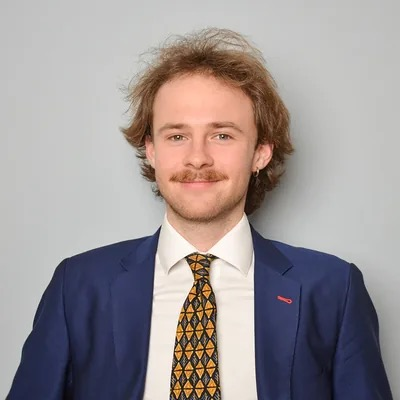
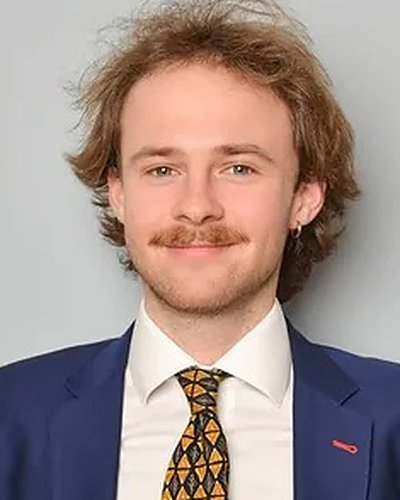
fix(team): crop Mikołaj's photo closer to match the others

diff --git a/en.html b/en.html
@@ -173,7 +173,7 @@
   <div class="z-head"><h2 class="thin">Who is behind it.</h2></div>
   <div class="team">
     <a class="person" href="https://www.linkedin.com/in/adam-b%C4%85czek-269921273/" target="_blank" rel="noopener" aria-label="Adam Bączek Lead (LinkedIn)"><div class="uni"><img src="assets/logos/cbs.svg" alt="Copenhagen Business School" loading="lazy" decoding="async"></div><div class="ph"><img src="assets/img/team/adam-baczek.jpg" alt="Adam Bączek" loading="lazy" decoding="async"></div><h3>Adam Bączek</h3><p class="mono">Lead</p></a>
-    <a class="person" href="https://www.linkedin.com/in/miko%C5%82aj-pawe%C5%82-sapek-8b5633267/" target="_blank" rel="noopener" aria-label="Mikołaj Sapek Operations (LinkedIn)"><div class="uni"><img src="assets/logos/cbs.svg" alt="Copenhagen Business School" loading="lazy" decoding="async"></div><div class="ph"><img src="assets/img/team/mikolaj-sapek.jpg" alt="Mikołaj Sapek" loading="lazy" decoding="async"></div><h3>Mikołaj Sapek</h3><p class="mono">Operations</p></a>
+    <a class="person" href="https://www.linkedin.com/in/miko%C5%82aj-pawe%C5%82-sapek-8b5633267/" target="_blank" rel="noopener" aria-label="Mikołaj Sapek Operations (LinkedIn)"><div class="uni"><img src="assets/logos/cbs.svg" alt="Copenhagen Business School" loading="lazy" decoding="async"></div><div class="ph"><img src="assets/img/team/mikolaj-sapek.jpg?v=2" alt="Mikołaj Sapek" loading="lazy" decoding="async"></div><h3>Mikołaj Sapek</h3><p class="mono">Operations</p></a>
     <a class="person" href="https://www.linkedin.com/in/hubert-szymanowski/" target="_blank" rel="noopener" aria-label="Hubert Szymanowski Operations (LinkedIn)"><div class="uni"><img src="assets/logos/cbs.svg" alt="Copenhagen Business School" loading="lazy" decoding="async"></div><div class="ph"><img src="assets/img/team/hubert-szymanowski.jpg" alt="Hubert Szymanowski" loading="lazy" decoding="async"></div><h3>Hubert Szymanowski</h3><p class="mono">Operations</p></a>
     <a class="person" href="https://www.linkedin.com/in/maksymilian-rokosz/" target="_blank" rel="noopener" aria-label="Maksymilian Rokosz Partnerships (LinkedIn)"><div class="uni"><img src="assets/logos/imperial.svg" alt="Imperial College London" loading="lazy" decoding="async"></div><div class="ph"><img src="assets/img/team/maksymilian-rokosz.jpg?v=2" alt="Maksymilian Rokosz" loading="lazy" decoding="async"></div><h3>Maksymilian Rokosz</h3><p class="mono">Partnerships</p></a>
     <a class="person" href="https://www.linkedin.com/in/jakub-pecka-5b27a3385/" target="_blank" rel="noopener" aria-label="Jakub Pecka Partnerships (LinkedIn)"><div class="uni"><img src="assets/logos/uva.svg" alt="University of Amsterdam" loading="lazy" decoding="async"></div><div class="ph"><img src="assets/img/team/jakub-pecka.jpg" alt="Jakub Pecka" loading="lazy" decoding="async"></div><h3>Jakub Pecka</h3><p class="mono">Partnerships</p></a>

diff --git a/index.html b/index.html
@@ -173,7 +173,7 @@
   <div class="z-head"><h2 class="thin">Kto za tym stoi.</h2></div>
   <div class="team">
     <a class="person" href="https://www.linkedin.com/in/adam-b%C4%85czek-269921273/" target="_blank" rel="noopener" aria-label="Adam Bączek Lead (LinkedIn)"><div class="uni"><img src="assets/logos/cbs.svg" alt="Copenhagen Business School" loading="lazy" decoding="async"></div><div class="ph"><img src="assets/img/team/adam-baczek.jpg" alt="Adam Bączek" loading="lazy" decoding="async"></div><h3>Adam Bączek</h3><p class="mono">Lead</p></a>
-    <a class="person" href="https://www.linkedin.com/in/miko%C5%82aj-pawe%C5%82-sapek-8b5633267/" target="_blank" rel="noopener" aria-label="Mikołaj Sapek Operations (LinkedIn)"><div class="uni"><img src="assets/logos/cbs.svg" alt="Copenhagen Business School" loading="lazy" decoding="async"></div><div class="ph"><img src="assets/img/team/mikolaj-sapek.jpg" alt="Mikołaj Sapek" loading="lazy" decoding="async"></div><h3>Mikołaj Sapek</h3><p class="mono">Operations</p></a>
+    <a class="person" href="https://www.linkedin.com/in/miko%C5%82aj-pawe%C5%82-sapek-8b5633267/" target="_blank" rel="noopener" aria-label="Mikołaj Sapek Operations (LinkedIn)"><div class="uni"><img src="assets/logos/cbs.svg" alt="Copenhagen Business School" loading="lazy" decoding="async"></div><div class="ph"><img src="assets/img/team/mikolaj-sapek.jpg?v=2" alt="Mikołaj Sapek" loading="lazy" decoding="async"></div><h3>Mikołaj Sapek</h3><p class="mono">Operations</p></a>
     <a class="person" href="https://www.linkedin.com/in/hubert-szymanowski/" target="_blank" rel="noopener" aria-label="Hubert Szymanowski Operations (LinkedIn)"><div class="uni"><img src="assets/logos/cbs.svg" alt="Copenhagen Business School" loading="lazy" decoding="async"></div><div class="ph"><img src="assets/img/team/hubert-szymanowski.jpg" alt="Hubert Szymanowski" loading="lazy" decoding="async"></div><h3>Hubert Szymanowski</h3><p class="mono">Operations</p></a>
     <a class="person" href="https://www.linkedin.com/in/maksymilian-rokosz/" target="_blank" rel="noopener" aria-label="Maksymilian Rokosz Partnerships (LinkedIn)"><div class="uni"><img src="assets/logos/imperial.svg" alt="Imperial College London" loading="lazy" decoding="async"></div><div class="ph"><img src="assets/img/team/maksymilian-rokosz.jpg?v=2" alt="Maksymilian Rokosz" loading="lazy" decoding="async"></div><h3>Maksymilian Rokosz</h3><p class="mono">Partnerships</p></a>
     <a class="person" href="https://www.linkedin.com/in/jakub-pecka-5b27a3385/" target="_blank" rel="noopener" aria-label="Jakub Pecka Partnerships (LinkedIn)"><div class="uni"><img src="assets/logos/uva.svg" alt="University of Amsterdam" loading="lazy" decoding="async"></div><div class="ph"><img src="assets/img/team/jakub-pecka.jpg" alt="Jakub Pecka" loading="lazy" decoding="async"></div><h3>Jakub Pecka</h3><p class="mono">Partnerships</p></a>
